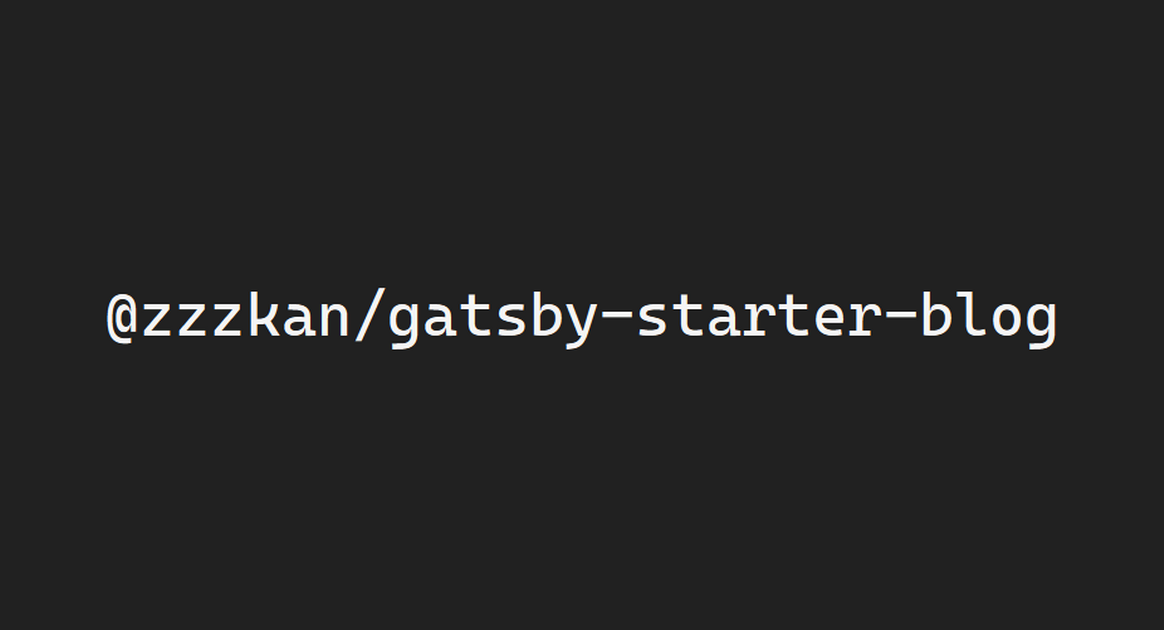
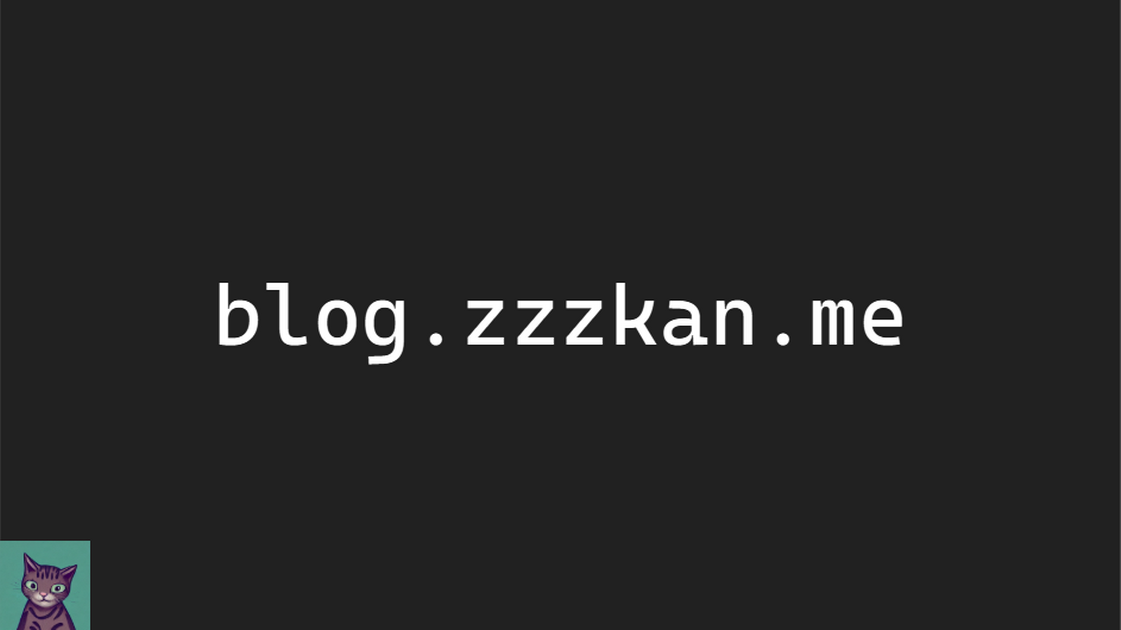
Update

Changed region(s): [[0.0937, 0.4524, 0.9054, 0.573], [0.9991, 0.0, 1.0, 1.0], [0.0, 0.8444, 0.0937, 1.0]]

diff --git a/gatsby-config.ts b/gatsby-config.ts
@@ -2,22 +2,22 @@ import type { GatsbyConfig } from "gatsby";
 
 const config: GatsbyConfig = {
   siteMetadata: {
-    title: "@zzzkan/gatsby-starter-blog",
-    siteUrl: "https://zzzkan-gatsby-starter-blog.netlify.app/",
-    description: "gatsby-starter-blog by @zzzkan.",
+    title: "blog.zzzkan.me",
+    siteUrl: "https://blog.zzzkan.me/",
+    description: "zzzkan's blog",
     author: "zzzkan",
     publicationYear: 2023,
-    imageUrl: "https://zzzkan-gatsby-starter-blog.netlify.app/banner.png",
+    imageUrl: "https://blog.zzzkan.me/banner.png",
   },
   graphqlTypegen: true,
   plugins: [
     {
       resolve: "@zzzkan/gatsby-theme-blog",
       options: {
-        lang: "en",
+        lang: "ja",
         basePath: "/",
         contentPath: "contents/posts",
-        dateFormatString: "MMMM DD, YYYY",
+        dateFormatString: "YYYY/MM/DD",
         links: [
           {
             name: "Profile",
@@ -43,8 +43,8 @@ const config: GatsbyConfig = {
     {
       resolve: "gatsby-plugin-manifest",
       options: {
-        name: "zzzkan-blog - @zzzkan/gatsby-starter-blog",
-        short_name: "zzzkan-blog",
+        name: "blog.zzzkan.me",
+        short_name: "blog.zzzkan.me",
         start_url: "/",
         background_color: "#fff",
         display: "minimal-ui",

diff --git a/README.md b/README.md
@@ -1,46 +1,3 @@
-<h1 align="center">
-  @zzzkan/gatsby-starter-blog
-</h1>
-<p align="center">
-  <a href="https://github.com/zzzkan/gatsby-starter-blog/blob/main/LICENSE">
-    <img src="https://img.shields.io/badge/license-0BSD-blue.svg" alt="0BSD license" />
-  </a>
-  <a href="https://app.netlify.com/sites/zzzkan-gatsby-starter-blog/deploys">
-    <img src="https://api.netlify.com/api/v1/badges/538d22a3-6438-4bb7-af7d-7a4eae8a6696/deploy-status" alt="Netlify Status" />
-  </a>
-</p>
+# blog.zzzkan.me
 
-![demo](./contents/images/demo.png)
-
-## Demo
-
-<https://zzzkan-gatsby-starter-blog.netlify.app/>
-
-## Features
-
-- MDX
-- [Chakra UI](https://github.com/chakra-ui/chakra-ui) theming
-- Light mode / Dark mode
-- Code highlighting with [Rehype Pretty Code](https://rehype-pretty-code.netlify.app/)
-- Tags
-- Related posts based on simple tag matching
-- Psagination
-- Social buttons (GitHub, Twitter, RSS)
-- RSS Feed
-- SEO
-
-And also be sure to check out [@zzzkan/gatsby-theme-blog](https://github.com/zzzkan/gatsby-theme-blog/tree/main/package#readme) for more information.
-
-## Getting Started
-
-Use the Gatsby CLI to clone the site and install dependencies.
-
-```sh
-npx gatsby new gatsby-starter-blog https://github.com/zzzkan/gatsby-starter-blog
-```
-
-Or create your repository using this template on GitHub.
-
-## Contact me
-
-Thanks for your interest in my project. Don't hesitate to contact me via [Twitter](https://twitter.com/_zzzkan) if you need anything.
+Created using [@zzzkan/gatsby-starter-blog](https://github.com/zzzkan/gatsby-starter-blog#readme)
